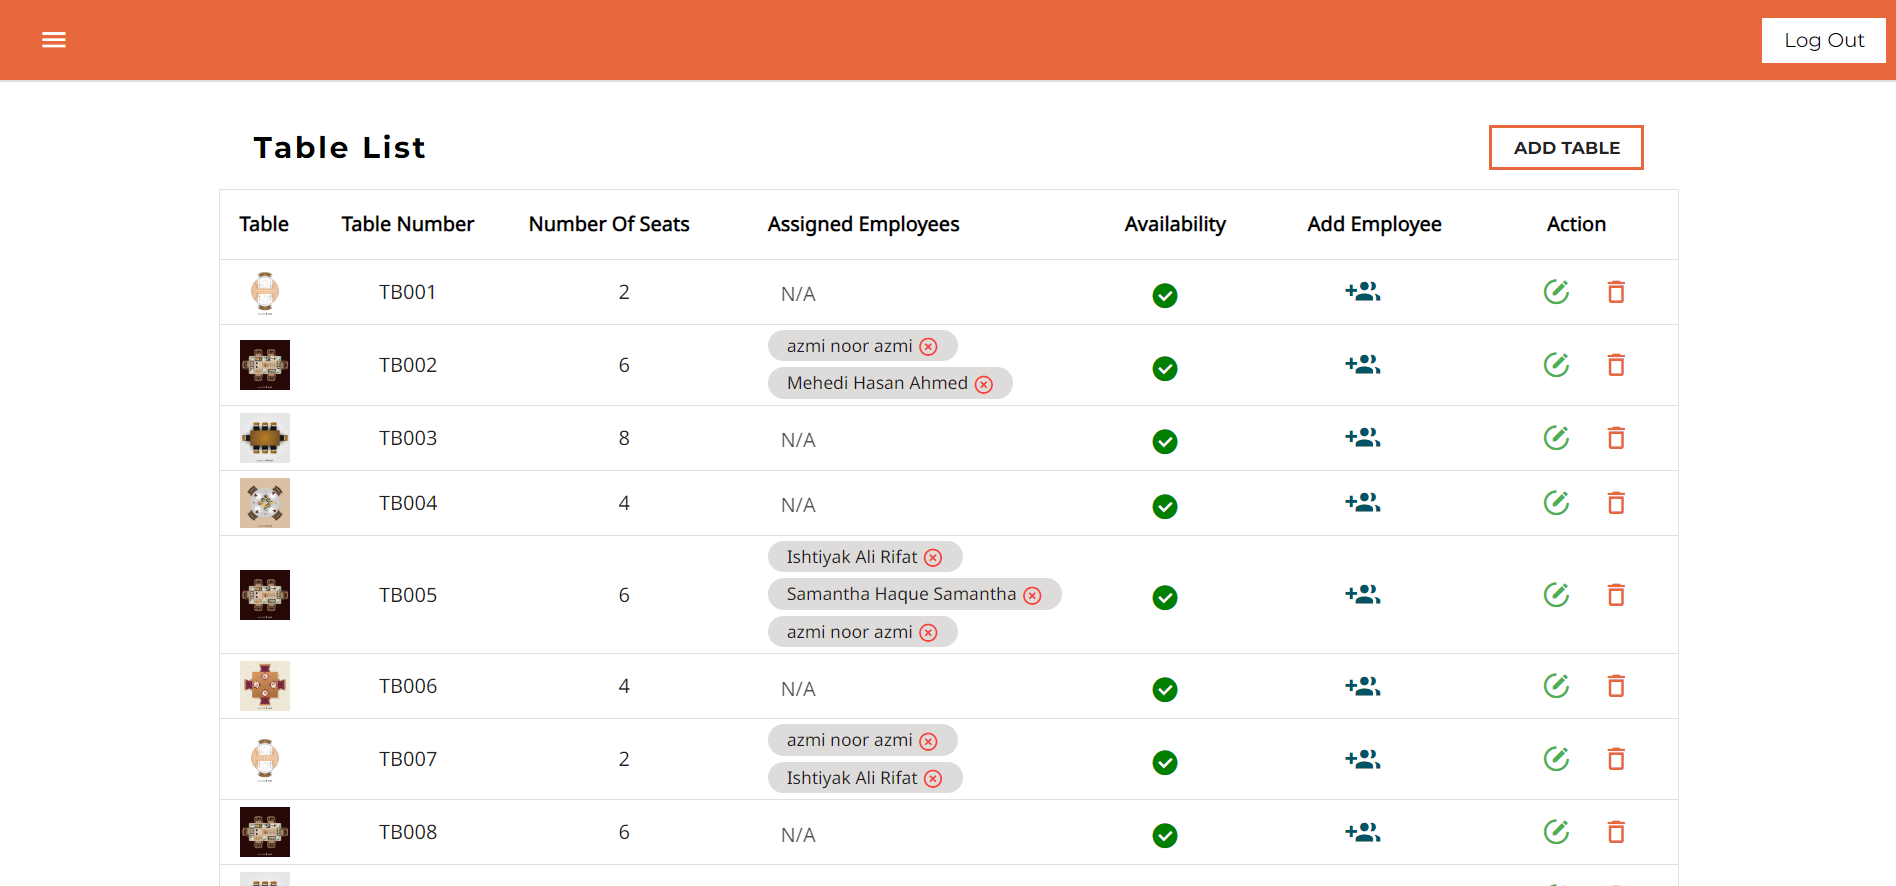
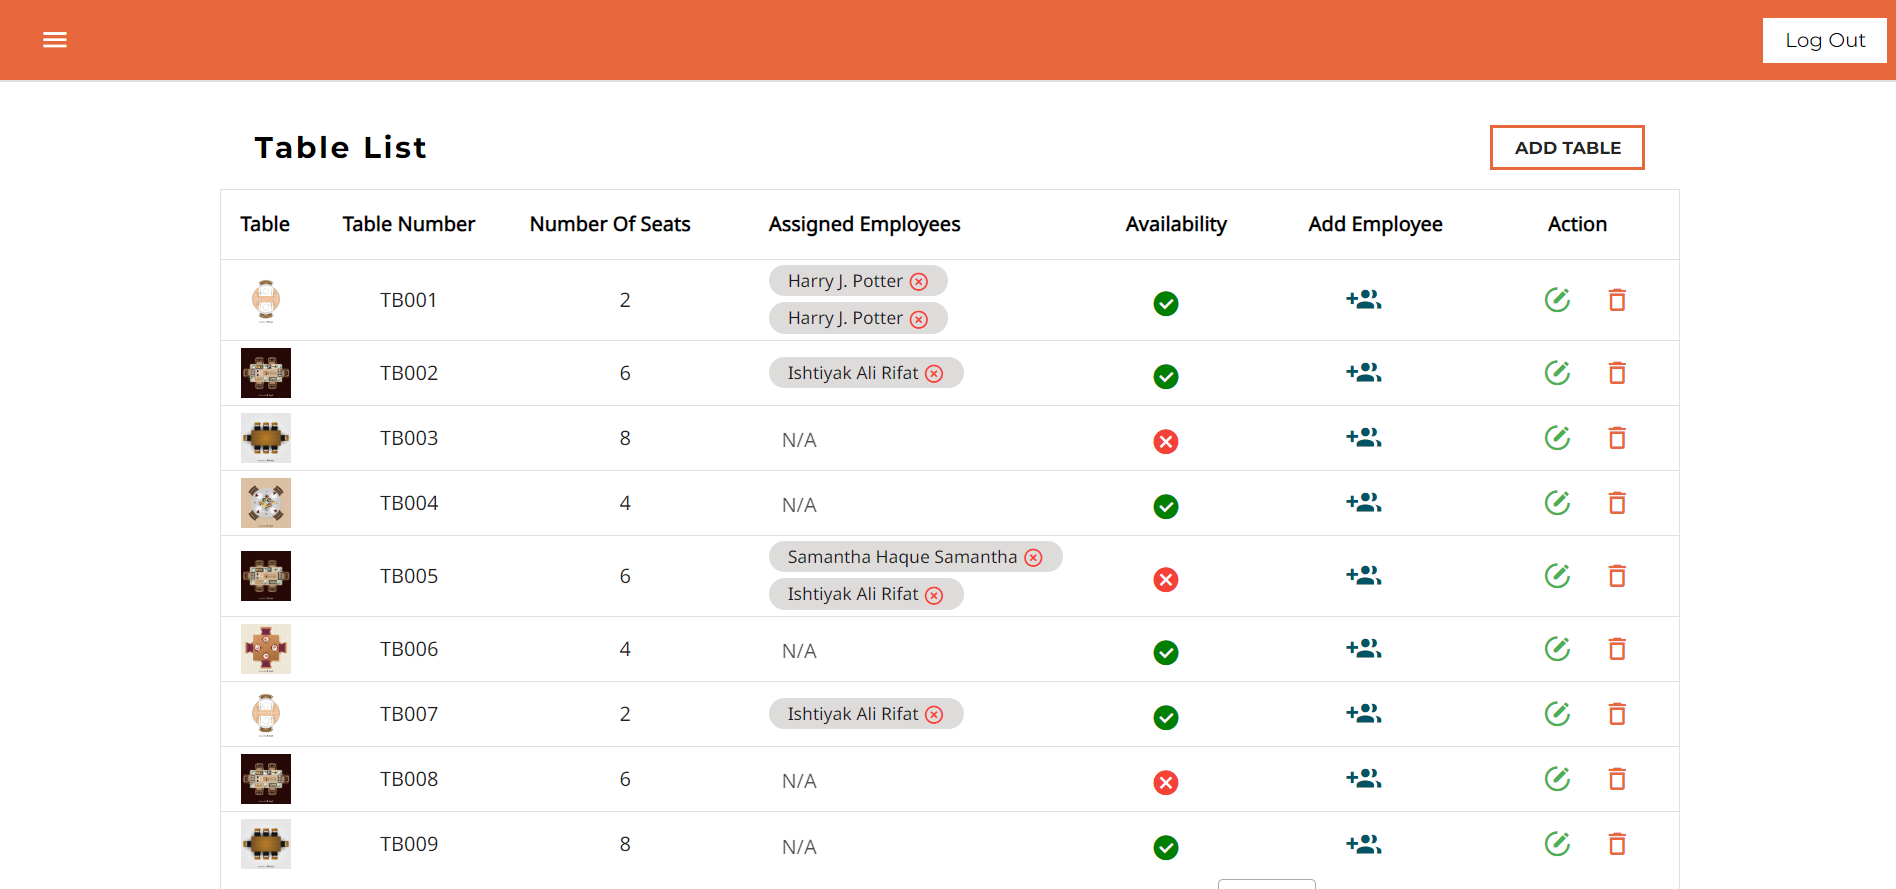
table page upadted

diff --git a/src/Views/Table.vue b/src/Views/Table.vue
@@ -38,11 +38,24 @@
           <v-dialog v-model="dialog" max-width="500px">
             <v-card>
               <v-card-text>
-                <div class="modal-text d-flex mt-5">
-                  <h3>Table Number: {{ selectedTable.tableNumber }}</h3>
-                </div>
-                <div class="modal-text d-flex mt-3">
-                  <h3>Number of Seats: {{ selectedTable.numberOfSeats }}</h3>
+                <div class="dialog-content-box">
+                  <div class="dialog-img-box">
+                    <v-img :src="renderImage(selectedTable.image)" />
+                  </div>
+                  <div class="dialog-text-box">
+                    <div class="modal-text d-flex mt-5">
+                      <p>
+                        Table Number:
+                        <span> {{ selectedTable.tableNumber }} </span>
+                      </p>
+                    </div>
+                    <div class="modal-text d-flex mt-3">
+                      <p>
+                        Number of Seats:
+                        <span>{{ selectedTable.numberOfSeats }}</span>
+                      </p>
+                    </div>
+                  </div>
                 </div>
                 <v-select
                   class="mt-3"
@@ -77,11 +90,20 @@
             {{ item.raw.numberOfSeats }}
           </div>
         </template>
-        <template v-slot:item.available="{ item }">
-          <v-icon color="red" class="icon-margin-set" v-if="item.isOccupied">
+        <template v-slot:item.available="{ item, i }">
+          <v-icon
+            color="red"
+            class="icon-margin-set"
+            v-if="
+              item.index == 4 ||
+              item.index == 2 ||
+              item.index == 7 ||
+              item.isOccupied
+            "
+          >
             mdi-close-circle
           </v-icon>
-          <v-icon class="icon-margin-set" else>mdi-check-circle</v-icon>
+          <v-icon class="icon-margin-set" v-else>mdi-check-circle</v-icon>
         </template>
         <template v-slot:item.addEmployee="{ item }">
           <v-btn
@@ -202,11 +224,11 @@ export default {
   },
   methods: {
     renderImage(image) {
-      if (image == "") {
-        return new URL("../assets/image/employeeImg.jpg", import.meta.url).href;
-      } else {
-        return this.imageUrl + "table/" + image;
-      }
+      // if (image == "") {
+      //   return new URL("../assets/image/employeeImg.jpg", import.meta.url).href;
+      // } else {
+      return this.imageUrl + "table/" + image;
+      // }
     },
     async fetchTableInfo({ page, itemsPerPage, sortBy }) {
       try {
@@ -225,6 +247,7 @@ export default {
     },
     async selectTable(item) {
       this.selectedTable = item;
+
       try {
         const response = await ApiCall.get(
           `api/employee/non-assigned-employees/${item.id}`
@@ -238,7 +261,11 @@ export default {
     },
     async save() {
       try {
-        await ApiCall.post("api/EmployeeTable/create-range", this.formData);
+        const res = await ApiCall.post(
+          "api/EmployeeTable/create-range",
+          this.formData
+        );
+        console.log(res);
         await this.fetchEmployeeList({
           page: this.page,
           itemsPerPage: this.itemsPerPage,
@@ -247,6 +274,7 @@ export default {
       } catch (e) {
         console.log(e);
       }
+      this.dialog = false;
     },
   },
   mounted() {},
@@ -365,18 +393,28 @@ h4 {
   top: 100%;
   left: 15%;
 }
-.is-available-icon {
-  width: 25px;
-  color: #008000;
-}
-.btn-container {
-  width: 90%;
+.dialog-content-box {
+  /* display: grid;
+  grid-template-columns: 1fr 1fr;
+  gap: 0px !important; */
   display: flex;
-  justify-content: flex-end;
-  margin: 20px auto auto auto;
+  justify-content: center;
+  align-items: center;
+  flex-direction: column;
 }
-/* .create-btn {
-  color: rgb(26, 21, 13);
-  background-color: #f99d52;
-} */
+.dialog-img-box {
+  width: 80%;
+}
+.dialog-img-box img {
+  width: 100%;
+}
+@media screen and (min-width: 991px) {
+  .dialog-content-box {
+    flex-direction: row;
+    gap: 20px;
+  }
+  .dialog-img-box {
+    width: 50%;
+  }
+}
 </style>

diff --git a/src/Views/LogIn.vue b/src/Views/LogIn.vue
@@ -27,7 +27,7 @@
               <p class="d-block form-label">User Email</p>
             </div>
             <v-text-field
-              class="mb-1"
+              class="mb-1 tex-field text-medium-emphasis"
               :rules="[rules.required, rules.email]"
               v-model="userInfo.userName"
               density="compact"
@@ -51,7 +51,7 @@
               <p class="d-block form-label">Password</p>
             </div>
             <v-text-field
-              class="mb-3"
+              class="mb-3 tex-field text-medium-emphasis"
               v-model="userInfo.password"
               :append-inner-icon="
                 passwordIconVisible ? 'mdi-eye-off' : 'mdi-eye'
@@ -137,6 +137,7 @@ export default {
 };
 </script>
 <style scoped>
+@import url("https://fonts.googleapis.com/css2?family=Noto+Sans&display=swap");
 * {
   font-size: clamp(12px, -0.875rem + 2.333vw, 16px);
 }
@@ -148,14 +149,6 @@ h2 {
   display: flex;
   justify-content: center;
   align-items: center;
-  /* background: linear-gradient(
-    45deg,
-    #f09433 0%,
-    #e6683c 25%,
-    #dc2743 65%,
-    #cc2366 75%,
-    #bc1888 100%
-  ); */
   background-color: #e6683c;
 }
 .login-container {
@@ -174,8 +167,7 @@ h2 {
   justify-content: center;
   width: 95%;
   border-radius: 0;
-  /* margin-top: -10px; */
-  height: 390px;
+  height: clamp(390px, -3.875rem + 32.333vw, 525px);
 }
 
 @media screen and (min-width: 991px) {
@@ -193,7 +185,7 @@ h2 {
     width: 500px;
     border-radius: 0;
     margin-top: -10px;
-    height: 525px;
+    /* height: 525px; */
   }
 }
 
@@ -243,5 +235,15 @@ h2 {
   font-weight: 600;
   background-color: #e6683c;
   color: #000;
+}
+</style>
+<style>
+input {
+  font-family: "Noto Sans", sans-serif;
+  font-size: 16px;
+}
+.v-messages__message {
+  font-family: "Noto Sans", sans-serif;
+  font-size: 12px;
 }
 </style>
